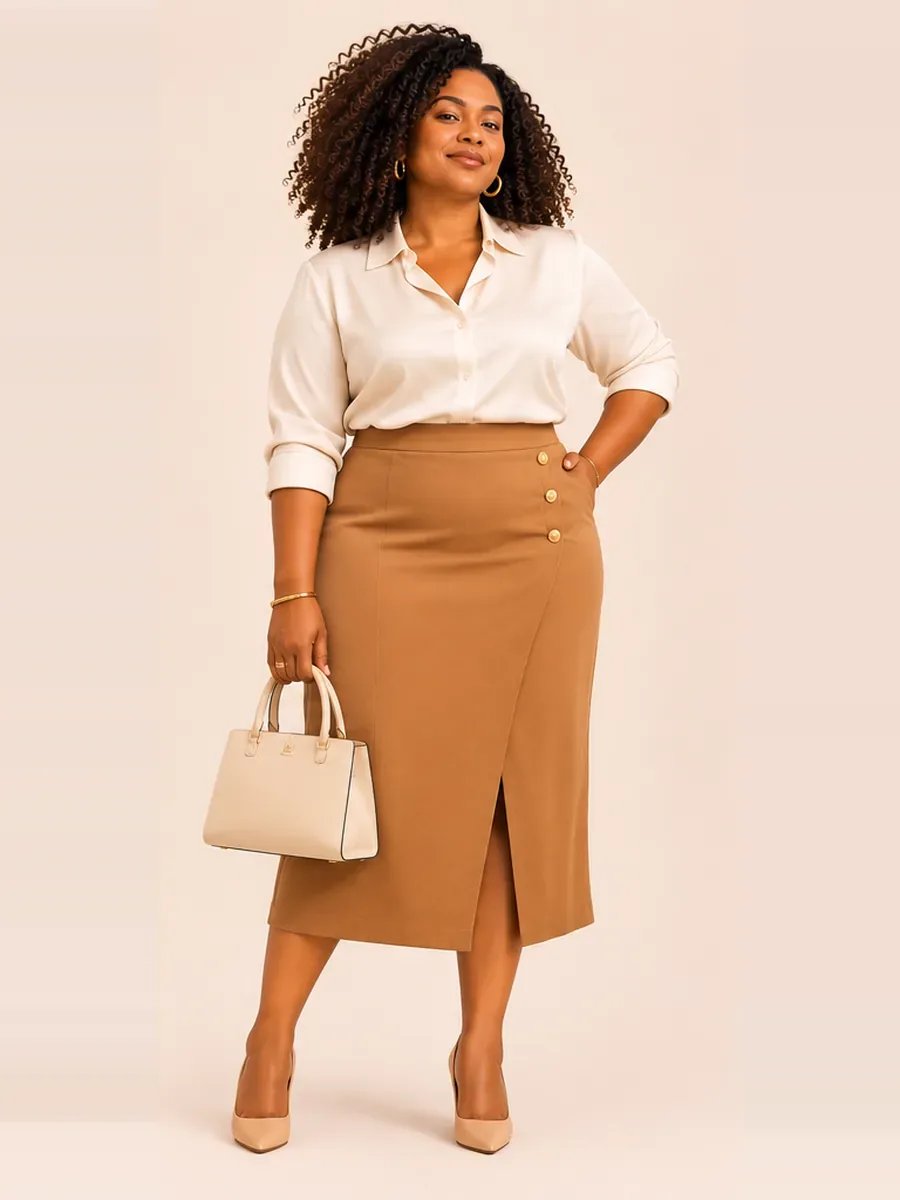
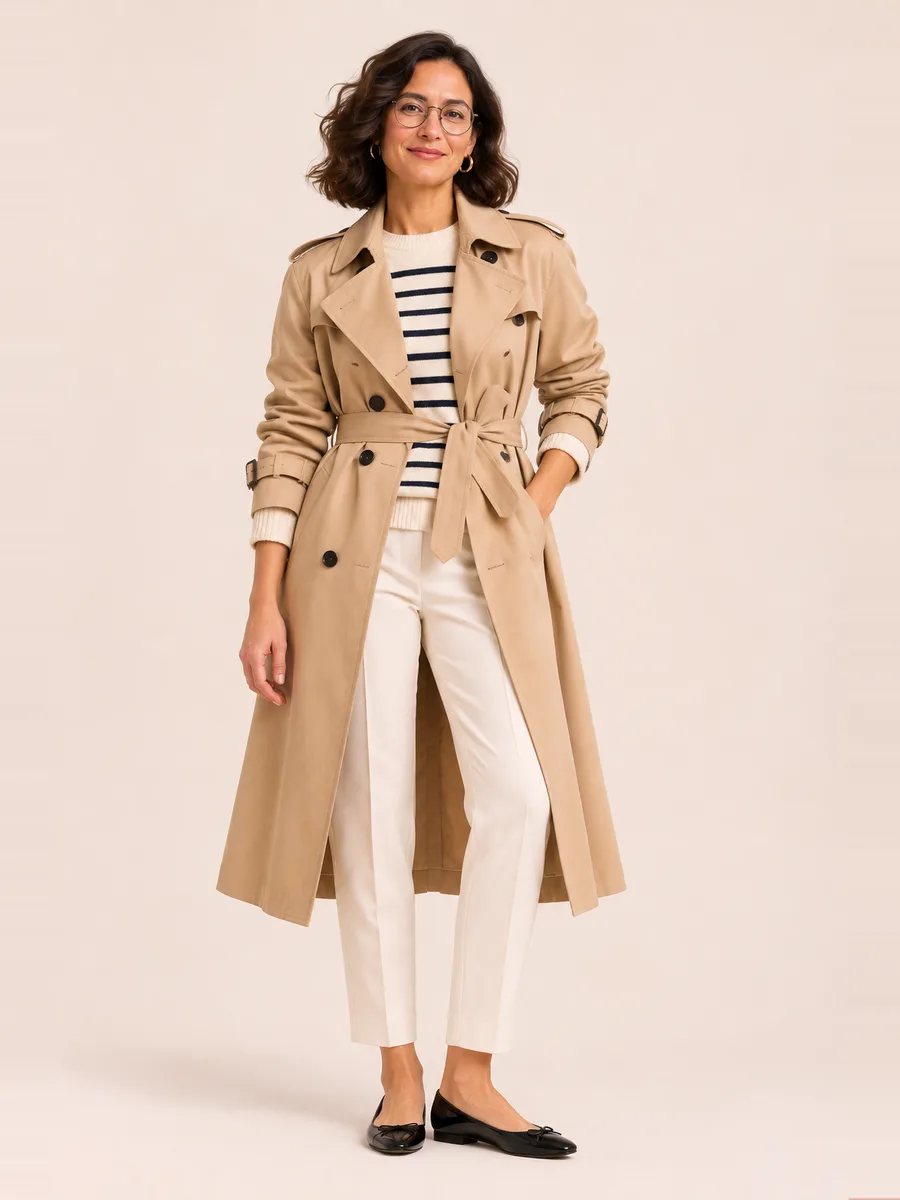
Styles : correctif Classique chic 2 ; Romantique 1 déposé (femme)
Classique chic 2 remplacé par la photo du prompt de correctifs. Romantique
1 converti et déposé, pas encore déclaré : la galerie s'affichera avec
les trois photos de la série.

Claude-Session: https://claude.ai/code/session_012QL3YtmR4vGBEaKjEs57SS

Changed region(s): [[0.2178, 0.0, 0.7467, 0.9867], [0.9644, 0.9867, 1.0, 1.0]]

diff --git a/src/lib/profile.ts b/src/lib/profile.ts
@@ -342,7 +342,7 @@ export const LOOKS_PORTES_STYLE: Record<"femme" | "homme", Partial<Record<StyleI
     minimaliste: ["/images/styles/looks/femme/minimaliste-1.webp", "/images/styles/looks/femme/minimaliste-2.webp", "/images/styles/looks/femme/minimaliste-3.webp"],
     casual_chic: ["/images/styles/looks/femme/casual-chic-1.webp", "/images/styles/looks/femme/casual-chic-2.webp", "/images/styles/looks/femme/casual-chic-3.webp"],
     // Fournis au format 3:4 (14/11/2026) : le 1 ramené à 900 × 1200 ; les 2 et 3 avaient des bandes claires ajoutées sur les côtés,
-    // retirées (recadrage sur la photo) puis recomplétées par le bord de la photo.
+    // retirées (recadrage sur la photo) puis recomplétées par le bord de la photo. Le 2 remplacé le 15/11/2026 (correctif, fourni en 2:3).
     classique_chic: ["/images/styles/looks/femme/classique-chic-1.webp", "/images/styles/looks/femme/classique-chic-2.webp", "/images/styles/looks/femme/classique-chic-3.webp"],
     boheme: ["/images/styles/looks/femme/boheme-1.webp", "/images/styles/looks/femme/boheme-2.webp", "/images/styles/looks/femme/boheme-3.webp"],
     streetwear: ["/images/styles/looks/femme/streetwear-1.webp", "/images/styles/looks/femme/streetwear-2.webp", "/images/styles/looks/femme/streetwear-3.webp"],
